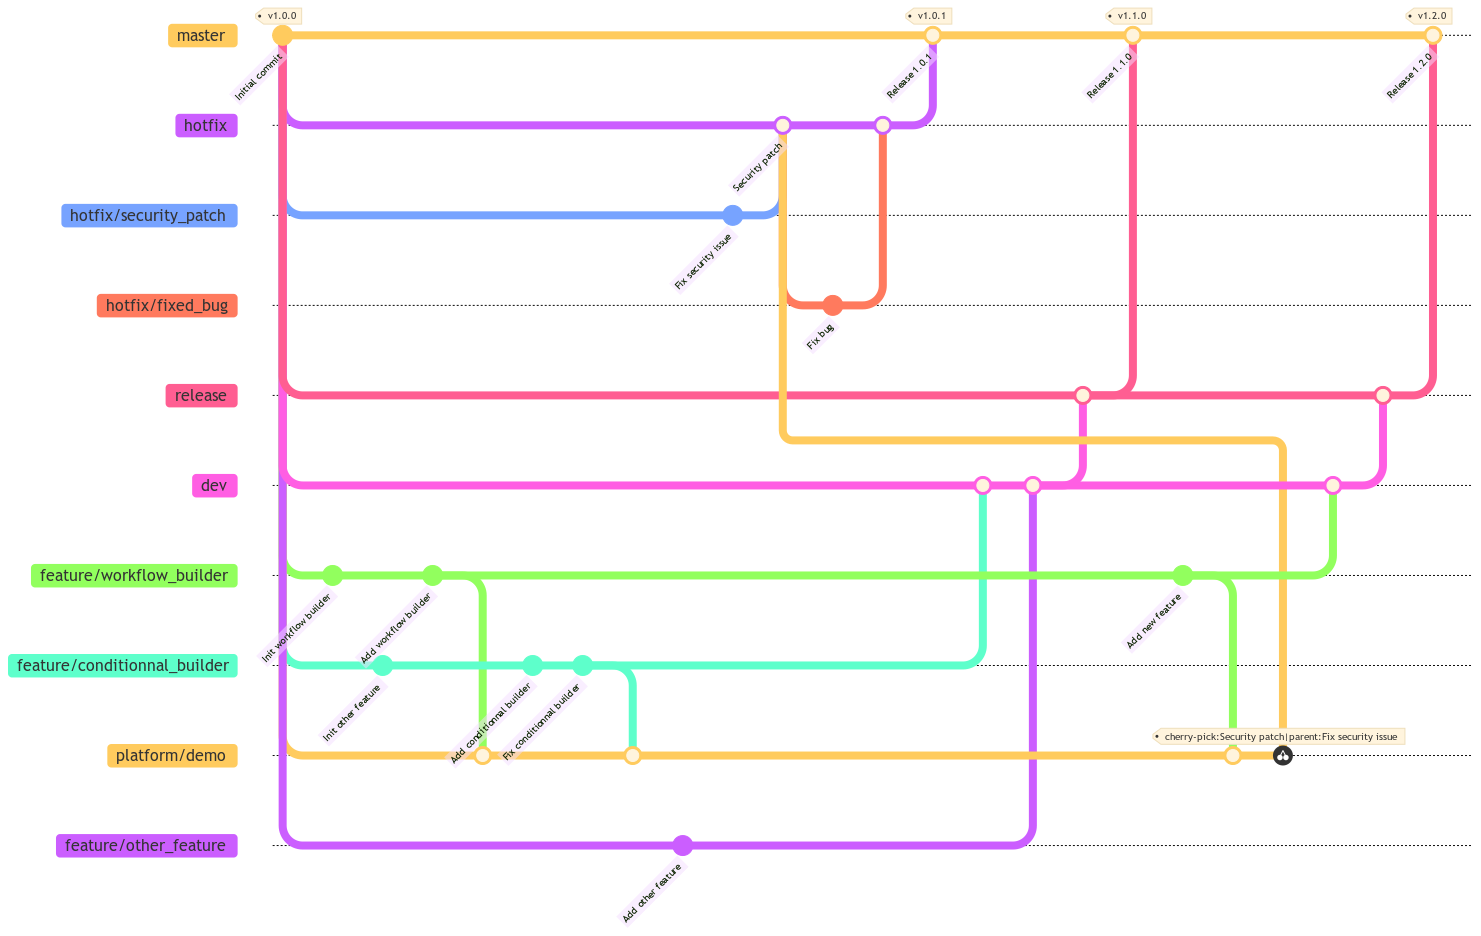
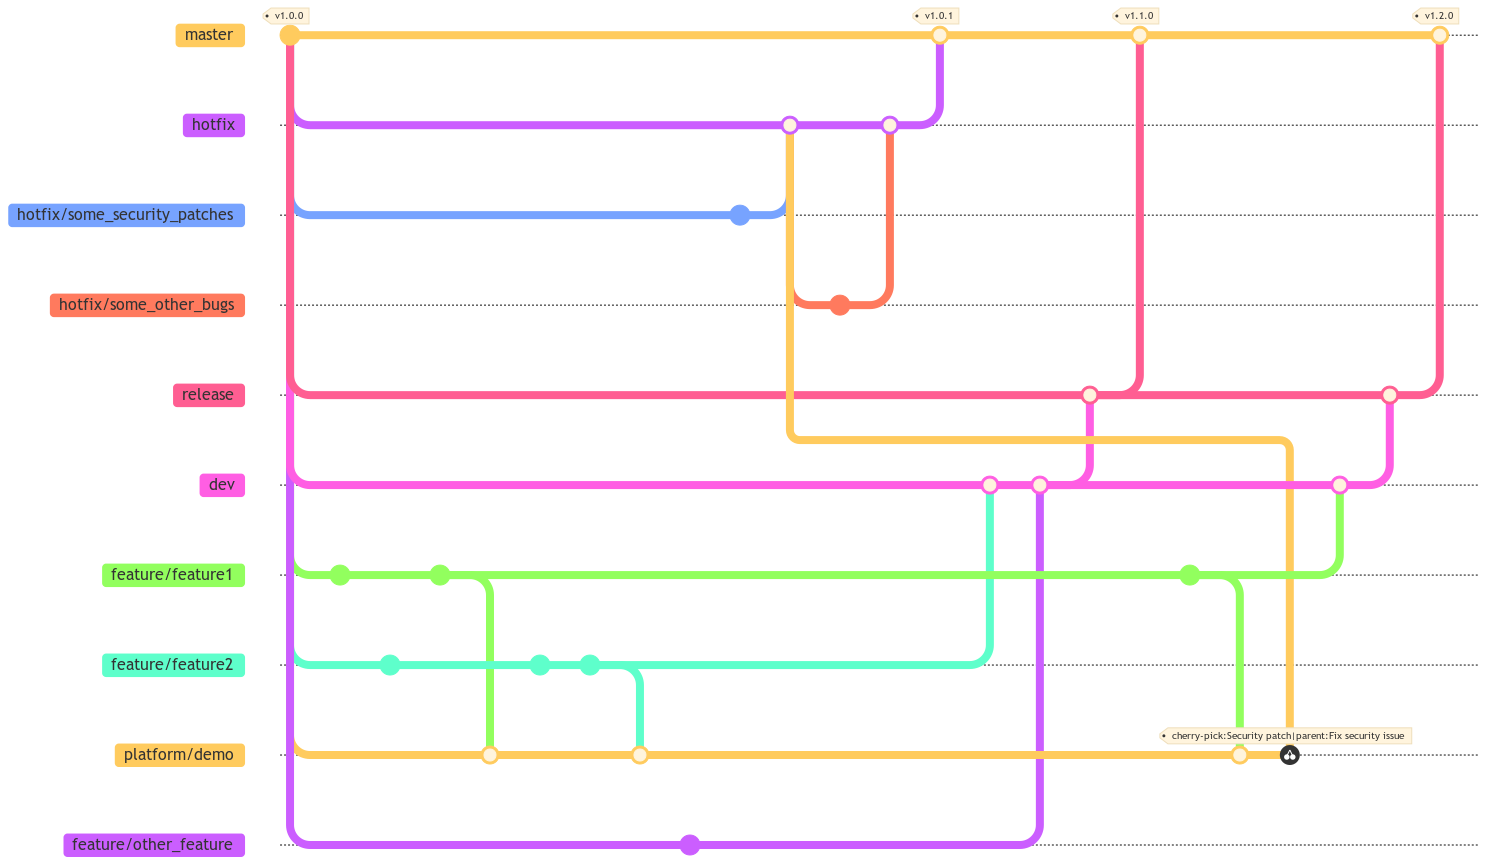
Update gitflow

diff --git a/README.md b/README.md
@@ -149,13 +149,13 @@ phpDocumentor
 # Gitflow
 
 ## Branches
-- **master** : This branch is the main branch. It contains the latest stable version of the application. It is protected and can only be updated by a merge request.
-- **hotfix** : This branch is used to prepare the next patch. It is created from the master branch and merged into the master branch.
-- **hotfix/xxx** : This branch is used to fix a bug. It is created from the master branch and merged into the hotfix branch.
-- **release** : This branch is used to prepare the next release. It is created from the dev branch and merged into the master branch.
-- **dev** : This branch is used to develop new features. It is created from the master branch and merged into the release branch.
-- **feature/xxx** : This branch is used to develop a new feature. It is created from the dev branch and merged into the dev branch.
-- **platform/xxx** : This branch is used to deploy a new feature in a specific environment. It is created from the dev branch and never merged.
+- **master** : This branch is the main branch. This contains the latest stable version of the application. It is protected and can only be updated by a merge request.
+- **hotfix** : This branch is used to prepare the next patch. This is created from the master branch and merged into the master branch. Only minor fixes (style, translations, minor impacts) are allowed to be committed directly in this branch. It's recommended to create a new branch from this one to fix a bug.
+- **hotfix/xxx** : These branches are used to fix a bug. They are created from the master branch and merged into the hotfix branch.
+- **release** : This branch is used to prepare the next release. This is created from the dev branch and merged into the master branch.
+- **dev** : This branch is used to test new features. This is created from the master branch and merged into the release branch. It's recommended to create a new branch from this one to develop a new feature.
+- **feature/xxx** : These branches are used to develop a new feature. They are created from the dev branch and merged into the dev branch.
+- **platform/xxx** : These branches are used to deploy a new feature in a specific environment. They are created from the dev branch and never merged.
 
 ## Simple gitflow
 
@@ -166,19 +166,19 @@ gitGraph
     branch hotfix order: 1
     branch release order: 3
     branch dev order: 4
-    branch feature/workflow_builder order: 5
+    branch feature/xxx order: 5
     commit id: "Add workflow builder"
     checkout hotfix
-    branch hotfix/security_patch order: 2
+    branch hotfix/xxx order: 2
     commit id: "Fix security issue"
     checkout hotfix
-    merge hotfix/security_patch id: "Security patch"
+    merge hotfix/xxx id: "Security patch"
     checkout master
     merge hotfix id: "Release 1.0.1" tag: "v1.0.1"
-    checkout feature/workflow_builder
+    checkout feature/xxx
     commit id: "Add new feature"
     checkout dev
-    merge feature/workflow_builder
+    merge feature/xxx
     checkout release
     merge dev
     checkout master

diff --git a/media/com_emundus/gitflow.md b/media/com_emundus/gitflow.md
@@ -9,54 +9,54 @@ gitGraph
         checkout release
         branch dev order: 4
         checkout dev
-        branch feature/workflow_builder order: 5
-        checkout feature/workflow_builder
+        branch feature/feature1 order: 5
+        checkout feature/feature1
         commit id: "Init workflow builder"
         checkout dev
-        branch feature/conditionnal_builder order: 6
+        branch feature/feature2 order: 6
         commit id: "Init other feature"
-        checkout feature/workflow_builder
+        checkout feature/feature1
         commit id: "Add workflow builder"
         checkout dev
         branch platform/demo order: 7
         checkout platform/demo
-        merge feature/workflow_builder
-        checkout feature/conditionnal_builder
+        merge feature/feature1
+        checkout feature/feature2
         commit id: "Add conditionnal builder"
         commit id: "Fix conditionnal builder"
         checkout platform/demo
-        merge feature/conditionnal_builder
+        merge feature/feature2
         checkout dev
         branch feature/other_feature order: 8
         checkout feature/other_feature
         commit id: "Add other feature"
         checkout hotfix
-        branch hotfix/security_patch order: 2
-        checkout hotfix/security_patch
+        branch hotfix/some_security_patches order: 2
+        checkout hotfix/some_security_patches
         commit id: "Fix security issue"
         checkout hotfix
-        merge hotfix/security_patch id: "Security patch"
-        branch hotfix/fixed_bug order: 2
-        checkout hotfix/fixed_bug
+        merge hotfix/some_security_patches id: "Security patch"
+        branch hotfix/some_other_bugs order: 2
+        checkout hotfix/some_other_bugs
         commit id: "Fix bug"
         checkout hotfix
-        merge hotfix/fixed_bug
+        merge hotfix/some_other_bugs
         checkout master
         merge hotfix id: "Release 1.0.1" tag: "v1.0.1"
         checkout dev
-        merge feature/conditionnal_builder
+        merge feature/feature2
         merge feature/other_feature
         checkout release
         merge dev
         checkout master
         merge release id: "Release 1.1.0" tag: "v1.1.0"
-        checkout feature/workflow_builder
+        checkout feature/feature1
         commit id: "Add new feature"
         checkout platform/demo
-        merge feature/workflow_builder
+        merge feature/feature1
         cherry-pick id:"Security patch" parent:"Fix security issue"
         checkout dev
-        merge feature/workflow_builder
+        merge feature/feature1
         checkout release
         merge dev
         checkout master
